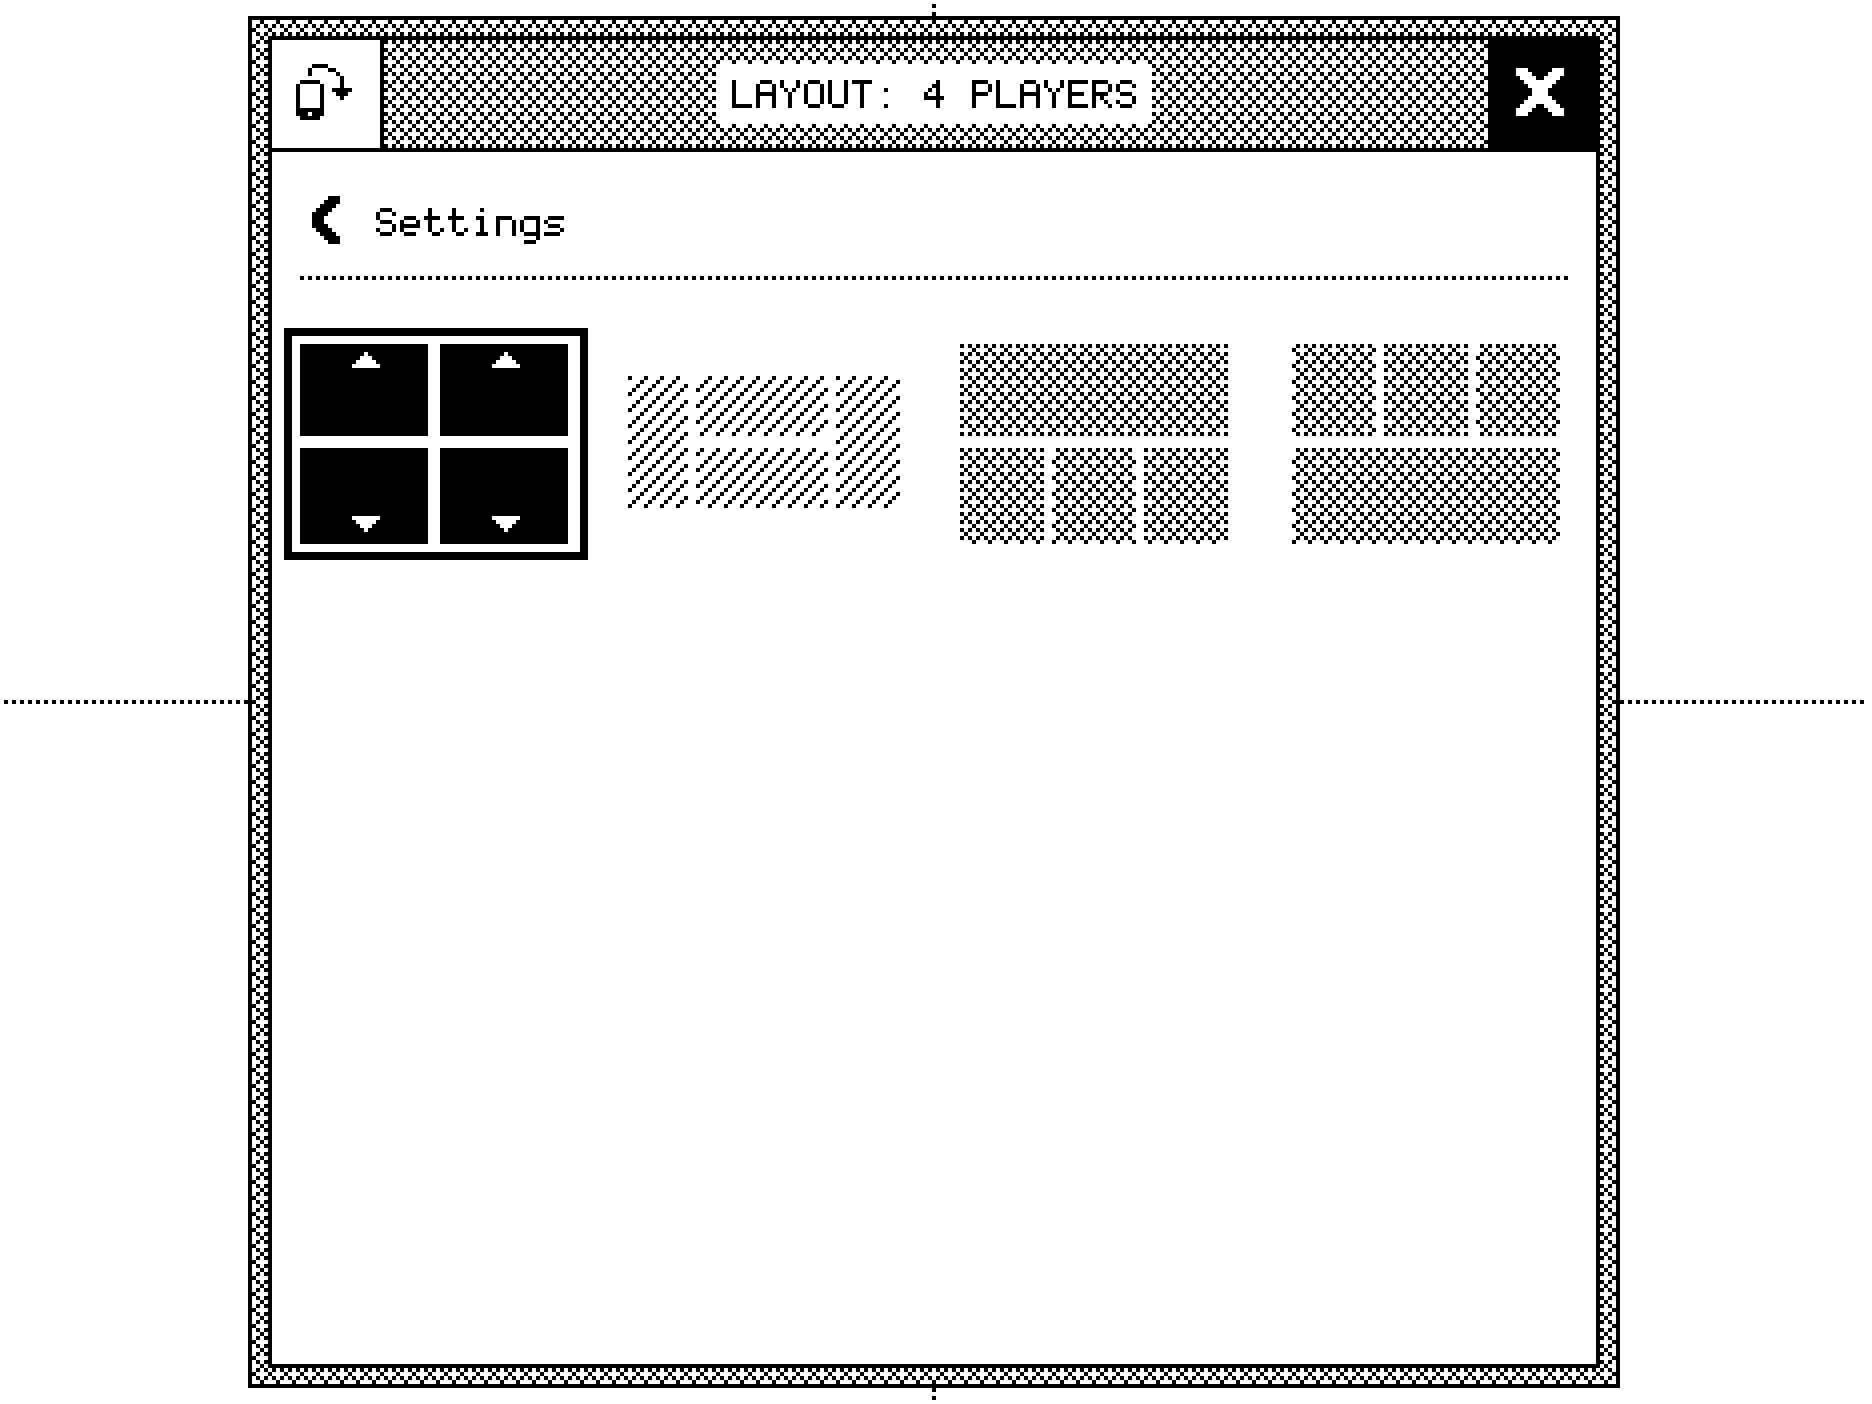
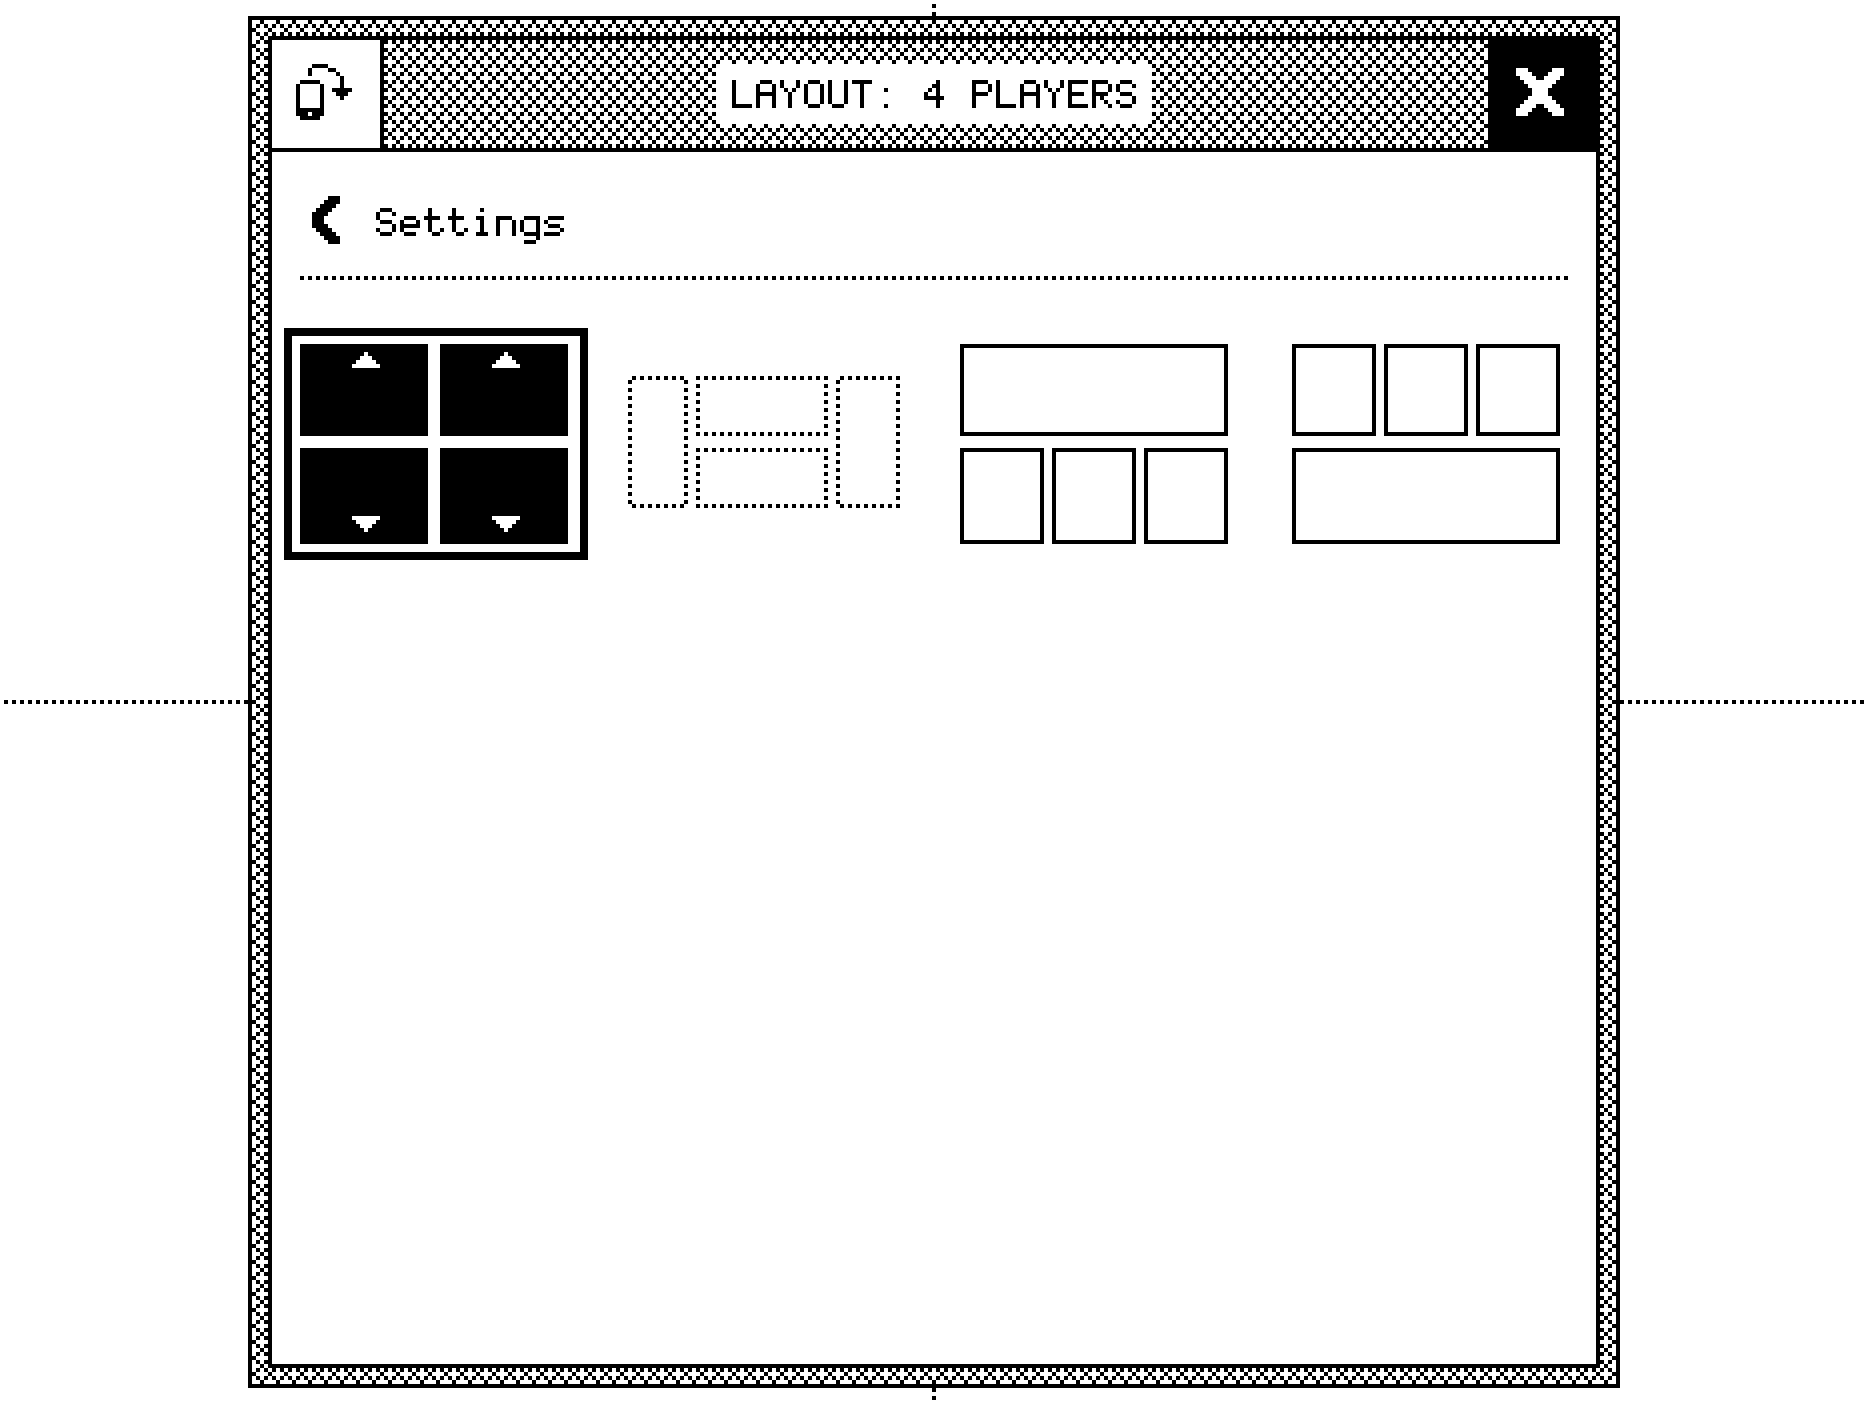
T60: picker thumbnails switched (the owner: "border for seat, dither for empty") — seats are ink outlines, empty cells the play screen's EMPTY ground; selected seats stay solid ink with paper arrows; unavailable seats are dotted outlines (never a fill, so never mistaken for an empty cell); picker ca

Changed region(s): [[0.3408, 0.245, 0.6506, 0.3981], [0.6816, 0.245, 0.8365, 0.3981]]

diff --git a/app/src/main/java/au/com/josephmark/dithertracker/settings/LayoutPicker.kt b/app/src/main/java/au/com/josephmark/dithertracker/settings/LayoutPicker.kt
@@ -26,7 +26,7 @@ import au.com.josephmark.dithertracker.widgets.WidgetMetrics
  * the same clockwise order — nothing is lost. For another count it waits, like the count, for NEW.
  *
  * **What is offered.** Every arrangement for the count. One that is not comfortable at the table's
- * scale is drawn hatched (wordless); tapping it does not choose it but writes the reason on the hint
+ * scale is drawn with dotted seat outlines (wordless); tapping it does not choose it but writes the reason on the hint
  * line at the foot of the page ("Needs scale 3 (Settings > Scale)" / "Too small at any scale").
  */
 class LayoutPickerRow(private val title: CharBuf) : SettingsRow() {
@@ -144,8 +144,8 @@ class LayoutPickerRow(private val title: CharBuf) : SettingsRow() {
  *
  * A thumbnail is the real play layout in miniature, in **screen orientation** (whichever side the
  * card faces it lies the way the table does): every seat's whole tile scaled down and drawn as an
- * inset dithered ground with a paper gap round it; empty cells as a dotted outline on paper; margins
- * paper. Seat rects are precomputed per box size ([seatRects], [emptyRects], in thumbnail px) at
+ * inset block with a paper gap round it; empty cells marked apart; margins
+ * paper (T60 tweak: seats are now outlines, empties the dithered ground; see [LayoutThumbPainter]). Seat rects are precomputed per box size ([seatRects], [emptyRects], in thumbnail px) at
  * layout, so drawing allocates nothing.
  */
 class LayoutGrid(id: Int) : Widget(id) {
@@ -317,12 +317,15 @@ class LayoutGrid(id: Int) : Widget(id) {
 }
 
 /**
- * Draws a laid-out [LayoutGrid] (T60). Per thumbnail: each seat an inset ground of the tab dither
- * ([Role.TAB]) — **hatched** ([Role.DISABLED]) when the arrangement is not available at this scale —
- * with paper gaps between; empty cells a dotted outline on paper. The current one: an ink frame
- * round the miniature, its seats in solid ink, and in each a small paper arrow pointing at the edge
- * its player sits at (only the selected thumbnail says which way people face, so the others stay
- * plain). Then the hint line and the footer. Allocation-free.
+ * Draws a laid-out [LayoutGrid] (T60; the owner's tweak: "border for seat, dither for empty"). Per
+ * thumbnail: each seat an inset **ink outline on paper**, paper gaps between; an **empty cell** a
+ * block of the play screen's own empty ground ([Role.EMPTY], chunky dots — the same "not a seat"
+ * texture the table shows, and unlike anything a seat is drawn with). The current one: an ink frame
+ * round the miniature, its seats **solid ink** each with a small paper arrow pointing at the edge its
+ * player sits at — the strongest contrast with the outlined others, and the only thumbnail that says
+ * which way people face. **Not available at this scale:** seats as **dotted** outlines (broken
+ * lines read as "not usable", and stay unfilled so they can't be taken for a dithered empty cell).
+ * Then the hint line and the footer. Allocation-free.
  */
 class LayoutThumbPainter(private val p: SettingsPainter) {
 
@@ -343,16 +346,21 @@ class LayoutThumbPainter(private val p: SettingsPainter) {
             val oy = s.top + (s.height - th) / 2
             val sel = i == g.selected
             if (sel) c.frame(ox - SEL_OUT, oy - SEL_OUT, tw + 2 * SEL_OUT, th + 2 * SEL_OUT, LayoutGrid.SEL, ink = true)
-            val ground = if (!g.enabledAt[i]) Role.DISABLED else if (sel) Role.INK else Role.TAB
+            val offered = g.enabledAt[i]
             for (k in 0 until g.emptyCount[i]) {
                 val e = g.emptyRects[i][k]
-                dottedOutline(ox + e.left, oy + e.top, e.width, e.height)
+                if (e.width > 0 && e.height > 0) c.fill(Role.EMPTY, ox + e.left, oy + e.top, e.width, e.height)
             }
             for (k in 0 until g.seatCount[i]) {
                 val r = g.seatRects[i][k]
                 if (r.width <= 0 || r.height <= 0) continue
-                c.fill(ground, ox + r.left, oy + r.top, r.width, r.height)
-                if (sel) arrow(ox + r.left, oy + r.top, r.width, r.height, g.seatRot[i][k])
+                val x = ox + r.left
+                val y = oy + r.top
+                when {
+                    sel -> { c.rect(x, y, r.width, r.height, ink = true); arrow(x, y, r.width, r.height, g.seatRot[i][k]) }
+                    offered -> c.frame(x, y, r.width, r.height, 1, ink = true)
+                    else -> dottedOutline(x, y, r.width, r.height)
+                }
             }
         }
         if (g.hintChars > 0) w.text(f, m, m.ui, g.hint, 0, g.hintChars, g.hintRect, TextLayout.CENTRE, invert = false, opaque = false)

diff --git a/design/layouts/README.md b/design/layouts/README.md
@@ -135,14 +135,17 @@ so it favours nobody.
 Under a back row, **wordless thumbnails, four columns of three a page** (`settings/LayoutPicker.kt`),
 default first; a count with more than 12 pages with a `‹ n/m ›` footer (none does today: 3 players has
 exactly 12). Each thumbnail is the real play layout in miniature, in **screen orientation** (whichever
-side the card faces, it lies the way the tablet does): every seat's whole tile as an **inset ground of
-the tab dither** with a paper gap round it — no outlines, no names, no drawer-tab notch; an **empty
-cell** is a dotted outline on paper; margins are paper. Only the **selected** thumbnail says which way
-people face: an ink frame round it, its seats in solid ink, each with a small paper arrow pointing at
-the edge its player sits at — the others stay plain grounds. A layout **not available** at the table's
-scale is hatched (`DISABLED`); tapping it does not choose it but writes why on the page's **hint
-line**: "Needs scale 3 (Settings > Scale)" or "Too small at any scale". The card's remembered facing
-applies to this page as to every other.
+side the card faces, it lies the way the tablet does). After the owner saw it on the Nomad ("border
+for seat, dither for empty"): every seat's whole tile is an **inset ink outline on paper** with paper
+gaps between; an **empty cell** is a block of the play screen's own empty ground (`Role.EMPTY`, chunky
+dots — the same "not a seat" texture the table shows, rather than the tab dither, which belongs to seats
+and tabs); no names, no notches; margins paper. Only the **selected** thumbnail says which way people
+face: an ink frame round it and its seats **solid ink** (the strongest contrast with the outlined
+others), each with a small paper arrow pointing at the edge its player sits at. A layout **not
+available** at the table's scale draws its seats as **dotted** outlines — broken lines read "not
+usable", and stay unfilled so they can't be taken for a dithered empty cell; tapping one does not
+choose it but writes why on the page's **hint line**: "Needs scale 3 (Settings > Scale)" or "Too small
+at any scale". The card's remembered facing applies to this page as to every other.
 
 **When a choice applies.** For the count the table is playing: **at once**. A layout change is
 non-destructive — the same players keep the same seats in the same clockwise order (seat i stays seat
